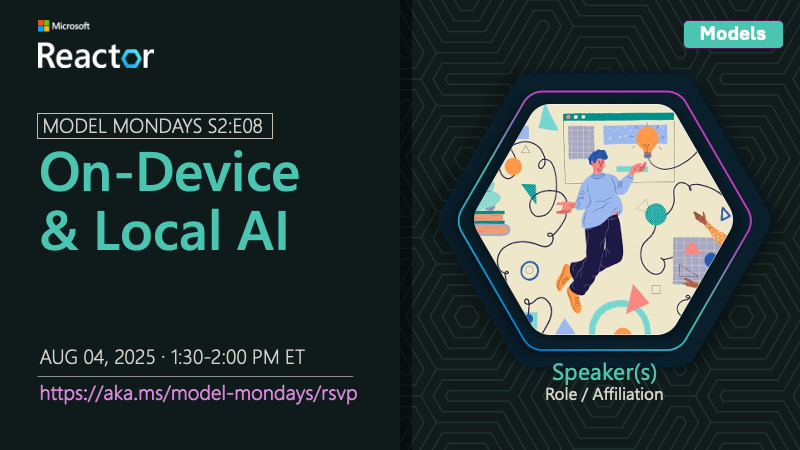
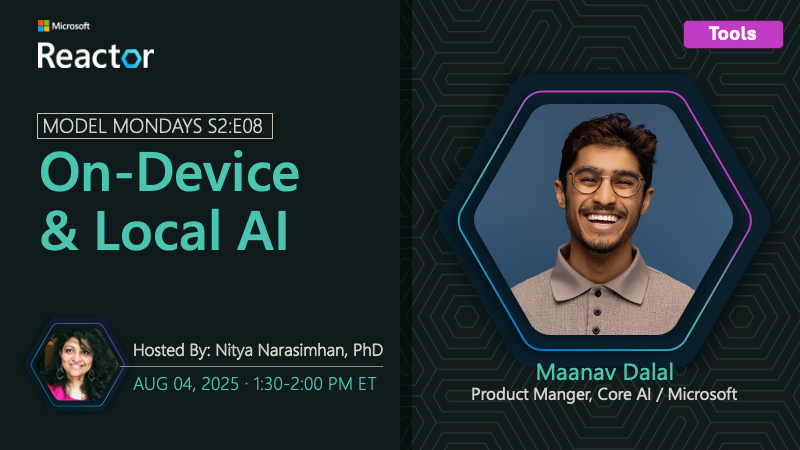
S1 & S2 / badges & schedule ready

diff --git a/README.md b/README.md
@@ -5,49 +5,85 @@
 [![GitHub stars](https://img.shields.io/github/stars/microsoft/model-mondays?style=social&label=Star)](https://github.com/microsoft/model-mondays/stargazers)
 
 
-[![Join Discord Shield](https://img.shields.io/badge/Join_The_Community-Azure_AI_Foundry_Discord-01a6f0)](https://aka.ms/model-mondays/discord) [![Discover](https://img.shields.io/badge/Talk_To_Experts-Foundry_Friday_AMA-f34f1c)](https://aka.ms/model-mondays/discord) [![Register](https://img.shields.io/badge/Watch_The_Replay-Model_Mondays_Playlist-ffba01)](https://aka.ms/model-mondays/[playlist]) [![Join](https://img.shields.io/badge/Watch_Us_Live-Model_Mondays_Livestream-7fbc00)](https://aka.ms/model-mondays/rsvp) [![Subscribe](https://img.shields.io/badge/Subscribe-Model_Mondays_Newsletter-purple)](https://aka.ms/model-mondays/newsletter) 
+[![Join Discord Shield](https://img.shields.io/badge/Join_The_Community-Azure_AI_Foundry_Discord-01a6f0)](https://aka.ms/model-mondays/discord) [![Discover](https://img.shields.io/badge/Register_For_AMA-Foundry_Friday_Series-f34f1c)](https://aka.ms/model-mondays/forum) [![Register](https://img.shields.io/badge/Watch_The_Replay-Model_Mondays_Playlist-ffba01)](https://aka.ms/model-mondays/playlist) [![Join](https://img.shields.io/badge/Register_For_Livestream-Model_Mondays_Series-7fbc00)](https://aka.ms/model-mondays/rsvp) [![Subscribe](https://img.shields.io/badge/Subscribe_To_Newsletter-Model_Mondays_Weekly-purple)](https://aka.ms/model-mondays/newsletter) 
+
+> 🌟 If you find this series useful, give us a star on GitHub!.
 
 ---
+
+<br/>
 
 ![Model Mondays](./img/model-mondays-banner.png)
 
-> [!IMPORTANT]
-> **Find this series useful? Give us a ⭐ on GitHub!**
 
-Model Mondays is a weekly 30-min livestream (on Mondays) with an AMA session (on Fridays) to help you keep up with the rapid pace of innovation in AI models.
+Every AI developer journey starts with model choice. But, as developers, we face two challenges. First is **information overload** - how do we keep up with the rapid pace of model updates and innovation? Second is **decision fatigue** - how do we pick the right model for our task given an ever-growing list of options?
 
-- **Highlights** · a 5-min recap of top model news from the last week.
-- **Spotlight** · a 15-min deep dive into a single model, with an expert.
-- **Community** · a 30-min AMA for interactive QA with experts, on Discord.
+Model Mondays tackles these challenges by helping you build your model IQ one week at a time with [livestreams every Monday](https://aka.ms/model-mondays/rsvp) and [AMAs every Friday](https://aka.ms/model-mondays/forum).
+
+1. **5-min Highlights** - catch up on key news items from the past week.
+2. **15-min Spotlight** - get a deep-dive on 1 topic from an expert.
+3. **30-min AMA** - ask questions & discuss topic with experts on Discord.
 
 
+<br/>
+
+## Season 2: Jun-Sep 2025
+
+> _Season 2 kicked off on Jun 16, 2025 and will run through Sep 2025. =Use the **Register** links to get reminders for upcoming events, and visit the **Replay** and **Recap** links to revisit past episodes and AMAs._
+
+| Episode | Topic | Monday Livestream | Friday AMA| Slides | 
+|:---|:---|:---|:---|:---|
+| S2:E01 | Advanced Reasoning | [![Replays](https://img.shields.io/badge/Replay_-Jun_16-ffba01)](https://www.youtube.com/watch?v=ffxUEenM4B8&list=PLmsFUfdnGr3wzz6a4E-Szksg92JPng-AL&index=12&pp=iAQB) | [![Recap](https://img.shields.io/badge/Recap_-Jun_20-01a6f0)](https://github.com/orgs/azure-ai-foundry/discussions/55) | [![Speakerdeck](https://img.shields.io/badge/Download_-PDF-purple)](https://speakerdeck.com/nitya/model-mondays-s2e01-advanced-reasoning)|
+| S2:E02 | Model Context Protocol| [![Replays](https://img.shields.io/badge/Replay_-Jun_23-ffba01)](https://www.youtube.com/watch?v=cPS3cWRZTps&list=PLmsFUfdnGr3wzz6a4E-Szksg92JPng-AL&index=9&pp=iAQB) | [![Recap](https://img.shields.io/badge/Recap_-Jun_27-01a6f0)](https://github.com/orgs/azure-ai-foundry/discussions/64) |[![Speakerdeck](https://img.shields.io/badge/Download_-PDF-purple)](https://speakerdeck.com/nitya/model-mondays-s2e02-model-context-protocol) |
+| S2:E03| SLMs and Reasoning | [![Replays](https://img.shields.io/badge/Replay_-Jun_30-ffba01)](https://www.youtube.com/watch?v=VLQKZq8L9Uk&list=PLmsFUfdnGr3wzz6a4E-Szksg92JPng-AL&index=1&pp=iAQB) | [![Recap](https://img.shields.io/badge/Register_-Jul_03-f34f1c)](https://discord.gg/azureaifoundry?event=1382861149288005693) |[![Speakerdeck](https://img.shields.io/badge/Download_-PDF-purple)](https://speakerdeck.com/nitya/model-mondays-s2e02-model-context-protocol) |
+| | **`REGISTER NOW 👇🏽`** | |
+| S2:E04| AI & Dev Experience | [![Replays](https://img.shields.io/badge/Register_-Jul_07-f7fbc00)](https://www.youtube.com/watch?v=tNiFbf3XP6k&list=PLmsFUfdnGr3wzz6a4E-Szksg92JPng-AL&index=11&pp=iAQB) | [![Recap](https://img.shields.io/badge/Register-Jul_11-f34f1c)](https://discord.gg/azureaifoundry?event=1382861578201858058) |[![Speakerdeck](https://img.shields.io/badge/Pending_-PDF-beige)]() |
+| S2:E05| Fine-Tuning & Distillation | [![Replays](https://img.shields.io/badge/Register_-Jul_14-f7fbc00)](https://www.youtube.com/watch?v=VSNGzBB20aw&list=PLmsFUfdnGr3wzz6a4E-Szksg92JPng-AL&index=10&pp=iAQB) | [![Recap](https://img.shields.io/badge/Register-Jul_18-f34f1c)](https://discord.gg/azureaifoundry?event=1382862245721014476) |[![Speakerdeck](https://img.shields.io/badge/Pending_-PDF-beige)]() |
+| S2:E06| Research & Innovation | [![Replays](https://img.shields.io/badge/Pending_-Jul_21-beige)]() | [![Recap](https://img.shields.io/badge/Register-Jul_25-f34f1c)](https://discord.gg/D7bAFEwj?event=1382862595849064548) |[![Speakerdeck](https://img.shields.io/badge/Pending_-PDF-beige)]() |
+| S2:E07| Model Auto-Selection | [![Replays](https://img.shields.io/badge/Register_-Jul_28-f7fbc00)](https://www.youtube.com/watch?v=mSrg1uP136g&list=PLmsFUfdnGr3wzz6a4E-Szksg92JPng-AL&index=8&pp=iAQB) | [![Recap](https://img.shields.io/badge/Register-Jul_31-f34f1c)](https://discord.gg/D7bAFEwj?event=1382862912804360354) |[![Speakerdeck](https://img.shields.io/badge/Pending_-PDF-beige)]() |
+| S2:E08| On-Device & Local AI | [![Replays](https://img.shields.io/badge/Register_-Aug_04-f7fbc00)](https://www.youtube.com/watch?v=ILBDDCJ0d9g&list=PLmsFUfdnGr3wzz6a4E-Szksg92JPng-AL&index=7&pp=iAQB) | [![Recap](https://img.shields.io/badge/Register-Aug_08-f34f1c)](https://discord.gg/azureaifoundry?event=1382863345777901670) |[![Speakerdeck](https://img.shields.io/badge/Pending_-PDF-beige)]() |
+| S2:E09| Models for AI Agents | [![Replays](https://img.shields.io/badge/Register_-Aug_11-f7fbc00)](https://www.youtube.com/watch?v=fjSxraAmGMI&list=PLmsFUfdnGr3wzz6a4E-Szksg92JPng-AL&index=6&pp=iAQB0gcJCcMJAYcqIYzv) | [![Recap](https://img.shields.io/badge/Register-Aug_15-f34f1c)](https://discord.gg/azureaifoundry?event=1382863654961025174) |[![Speakerdeck](https://img.shields.io/badge/Pending_-PDF-beige)]() |
+| S2:E10| Image & Video Playground | [![Replays](https://img.shields.io/badge/Register_-Aug_18-f7fbc00)](https://www.youtube.com/watch?v=tqOecUt_wCc&list=PLmsFUfdnGr3wzz6a4E-Szksg92JPng-AL&index=5&pp=iAQB) | [![Recap](https://img.shields.io/badge/Register-Aug_22-f34f1c)](https://discord.gg/azureaifoundry?event=1382864122902745228) |[![Speakerdeck](https://img.shields.io/badge/Pending_-PDF-beige)]() |
+| S2:E11| Text & Speech Playground | [![Replays](https://img.shields.io/badge/Register_-Aug_25-f7fbc00)](https://www.youtube.com/watch?v=Rr4iSCyE7IY&list=PLmsFUfdnGr3wzz6a4E-Szksg92JPng-AL&index=4&pp=iAQB) | [![Recap](https://img.shields.io/badge/Register-Aug_29-f34f1c)](https://discord.gg/azureaifoundry?event=1382864441191960696) |[![Speakerdeck](https://img.shields.io/badge/Pending_-PDF-beige)]() |
+| S2:E12| Models & Observability | [![Replays](https://img.shields.io/badge/Register_-Sep_08-f7fbc00)](https://www.youtube.com/watch?v=gEH2ACNf5b0&list=PLmsFUfdnGr3wzz6a4E-Szksg92JPng-AL&index=3&pp=iAQB) | [![Recap](https://img.shields.io/badge/Register-Sep_12-f34f1c)](https://discord.gg/azureaifoundry?event=1382864811649536120) |[![Speakerdeck](https://img.shields.io/badge/Pending_-PDF-beige)]() |
+| | | |
+
+> **Want to get more details about each session? [Check out the Season 2 page](./docs/season-02/README.md) for more information on each session including speakers, description and links to recaps and slides.** 
+
+![Season 2](./docs/season-02/img/S2-Banner-Lineup.png)
 ---
 
-## S2E02 · Model Context Protocol 🌟 **THIS WEEK** 🌟
+<br/>
 
-> Want to learn how Model Context Protocol works and how to leverage MCP in a more effective way to extend the capabilities of your AI models and agents? Join us as we talk to Den Delimarsky about the MCP specification, security considerations and usage within Microsoft Azure. 
+## Season 1: Mar-May 2025
 
- - 1⃣ | [Watch The Livestream Replay](https://www.youtube.com/watch?v=cPS3cWRZTps) 
- - 2⃣ | [Register For The AMA](https://discord.gg/azureaifoundry?event=1382860621137317948) - Friday, Jun 30
- - 3⃣ | [Ask Questions & View Recaps](https://github.com/orgs/azure-ai-foundry/discussions/54) - Discussion Forum
-
-![Banner](./docs/season-02/img/S2-E2.png)
-
-
-<br/> 
-
-## S2E03 · SLMs & Reasoning 🌟 **NEXT WEEK** 🌟
-
-> Reasoning models leverage inference-time scaling to execute complex tasks, but how can we use these in resource-constrained devices? Join us as we talk to Mojan Javaheripi about Phi-4 reasoning models that are redefining small language models (SLM) for the agentic era of apps.  
-
- - 1⃣ | [Register For The Livestream](https://developer.microsoft.com/en-us/reactor/events/25907/) - Monday, Jun 30
- - 2⃣ | [Register For The AMA](https://discord.gg/azureaifoundry?event=1382861149288005693) - Thursday, Jul 03
- - 3⃣ | [Ask Questions & View Recaps](https://aka.ms/model-mondays/forum) - Watch for update
-
-![Banner](./docs/season-02/img/S2-E3.png)
+[![Replays](https://img.shields.io/badge/Watch_S1:E01-GitHub_Models-b5179e)](https://www.youtube.com/watch?v=dohvGc7eyqU&list=PLmsFUfdnGr3wzz6a4E-Szksg92JPng-AL&index=20&pp=iAQB) 
+[![Replays](https://img.shields.io/badge/Watch_S1:E02-Reasoning_Models-43aa8b)](https://www.youtube.com/watch?v=nTqr4pzxF-k&list=PLmsFUfdnGr3wzz6a4E-Szksg92JPng-AL&index=19&pp=iAQB) 
+[![Replays](https://img.shields.io/badge/Watch_S1:E03-_Search_And_Retrieval_Models-43aa8b)](https://www.youtube.com/watch?v=Qs4fdy17b40&list=PLmsFUfdnGr3wzz6a4E-Szksg92JPng-AL&index=18&pp=iAQB) 
+[![Replays](https://img.shields.io/badge/Watch_S1:E04-Visual_Generative_Models-43aa8b)](https://www.youtube.com/watch?v=kDR09m_cUKs&list=PLmsFUfdnGr3wzz6a4E-Szksg92JPng-AL&index=17&pp=iAQB) 
+[![Replays](https://img.shields.io/badge/Watch_S1:E05-Fine_Tuning_Models-43aa8b)](https://www.youtube.com/watch?v=iCPl693s3dA&list=PLmsFUfdnGr3wzz6a4E-Szksg92JPng-AL&index=16&pp=iAQB) 
+[![Replays](https://img.shields.io/badge/Watch_S1:E06-Local_AI_Development-b5179e)](https://www.youtube.com/watch?v=MgIfvEEZN7o&list=PLmsFUfdnGr3wzz6a4E-Szksg92JPng-AL&index=15&pp=iAQB)  
+[![Replays](https://img.shields.io/badge/Watch_S1:E07-Open_Source_Models-43aa8b)](https://www.youtube.com/watch?v=2E842zOGIyI&list=PLmsFUfdnGr3wzz6a4E-Szksg92JPng-AL&index=14&pp=iAQB) 
+[![Replays](https://img.shields.io/badge/Watch_S1:E08-Forecasting_Models-43aa8b)](https://www.youtube.com/watch?v=_I6qDdp5Vo4&list=PLmsFUfdnGr3wzz6a4E-Szksg92JPng-AL&index=13&pp=iAQB0gcJCcMJAYcqIYzv) 
 
 
-<br/> 
+> **Our pilot season featured 8 episodes covering models (green badges) and tools (magenta badges) in Azure AI Foundry. [Visit the Season 1 page](./docs/season-01/README.md) for details or click the episode specific badge below to go directly to the replay.**
+
+[![Season 1](./docs/season-01/img/S1-lineup.png)](./docs/season-01/README.md)
+
+| Episode | Video | Blog | Slides | AMA | 
+|:---|:---|:---|:---|:---|
+| E01 · GitHub Models | [**Play ▶**](https://developer.microsoft.com/reactor/events/25265/)| [GitHub Models](https://techcommunity.microsoft.com/blog/machinelearningblog/introducing-model-mondays-%E2%80%93-your-ai-model-power-up/4390773) | [PDF](https://speakerdeck.com/nitya/model-mondays-s1-e1-mar-10-2025)  | Mar 14  |
+| E02 ·  Reasoning Models | [**Play ▶**](https://developer.microsoft.com/reactor/events/25266/) | [OpenAI, DeepSeek](./docs/season-01/ep-02.md)| [PDF](https://speakerdeck.com/nitya/model-mondays-s1-e2-hands-on-with-reasoning-models) | Mar 21 | 
+| E03 ·  Search + Retrieval  |  [**Play ▶**](https://developer.microsoft.com/en-us/reactor/events/25354/) |[Cohere Rerank](https://techcommunity.microsoft.com/blog/machinelearningblog/model-mondays-why-rerank-models-are-the-secret-sauce-of-high-quality-search/4396032) | [PDF](https://speakerdeck.com/nitya/model-mondays-s1-e3-hands-on-with-search-and-retrieval-models)  | Mar 28 |
+| E04 ·  Visual + Generative  |[**Play ▶**](https://developer.microsoft.com/reactor/events/25355/) |[Stable Diffusion](https://techcommunity.microsoft.com/blog/machinelearningblog/model-mondays-lights-prompts-action/4398576) |  [PDF](https://speakerdeck.com/nitya/model-mondays-s1-e4-hands-on-with-visual-generative-ai) | Apr 04 |
+| E05 ·  Fine-Tuning  |[**Play ▶**](https://developer.microsoft.com/reactor/events/25356/)  |[Mistral](https://techcommunity.microsoft.com/blog/machinelearningblog/model-mondays-teaching-your-model-new-tricks-with-fine-tuning/4401129) | [PDF](https://speakerdeck.com/nitya/model-mondays-s1-e4-hands-on-with-fine-tuning-models) | Apr 11| |
+| E06 ·  Local AI Development |[**Play ▶**](https://developer.microsoft.com/reactor/events/25357/)  | [AI Toolkit (AITK)](https://techcommunity.microsoft.com/blog/machinelearningblog/model-mondays-bringing-ai-home-with-local-development/4403619) |  [PDF](https://speakerdeck.com/nitya/model-mondays-s1-e6-hands-on-with-local-ai-development) | Apr 18 |
+| E07 ·  Open Source & AI  |[**Play ▶**](https://developer.microsoft.com/reactor/events/25358/)  | [Llama 4 (Meta)](https://techcommunity.microsoft.com/blog/aiplatformblog/expanding-the-llama-4-herd-new-models-now-available-on-azure-ai-foundry/4403609)| [PDF](https://speakerdeck.com/nitya/model-mondays-s1-e7-hands-on-with-open-source-models) | Apr 25|
+| E08 ·  Forecasting Models |[**Play ▶**](https://developer.microsoft.com/reactor/events/25359/)  | Nixtla TimeGEN | - | May 02 |
+| | |
+
+<br/>
 
 ## 👉🏽👉🏽 Join The Community
 
@@ -58,67 +94,5 @@ Great devs don't build alone! In a fast-pased developer ecosystem, there's no ti
 
 ![CTA](./img/3-cta.png)
 
----
-
-
-## 👉🏽👉🏽 Season 2: Live on Mondays, AMA on Fridays!
-
-Season 2 will be a 12-episode series with our focus now expanding to models and model-related tooling - with a focus on both industry (adoption) and research (innovation). Here's a sneak peek at the topics we have planned! 
-
-![Season 2](./docs/season-02/img/S2-Agenda.png)
-
-> [!IMPORTANT]  
-> Registrations are open for both livestreams and AMAs. **Click the date for registration links**. Check the table below for updates - and [visit the Season 2](./docs/season-02/README.md) pages for more details _or scroll down to see the current and next episodes on the schedule_.
-
-
-| Episode | Topic  | Live | AMA | Recap | PDF | Speaker(s)| 
-|:---|:---|:---|:---|:---|:---|:---|
-| E01 | Advanced Reasoning | [Play ▶](https://youtu.be/ffxUEenM4B8) | [Jun 20](https://discord.gg/azureaifoundry?event=1382860017660854372) | [Forum](https://github.com/orgs/azure-ai-foundry/discussions/55) | [Slides](https://speakerdeck.com/nitya/model-mondays-s2e01-advanced-reasoning) | Marlene Mhangami |
-| E02 |  Model Context Protocol| [Play ▶](https://www.youtube.com/watch?v=cPS3cWRZTps) | [Jun 27](https://discord.gg/azureaifoundry?event=1382860621137317948) | [Forum](https://github.com/orgs/azure-ai-foundry/discussions/64) | [Slide](https://speakerdeck.com/nitya/model-mondays-s2e02-model-context-protocol) | Den Delimarsky |
-| E03 | SLMs and Reasoning | [Jun 30](https://developer.microsoft.com/en-us/reactor/events/25907/) | [Jul 03](https://discord.gg/azureaifoundry?event=1382861149288005693) |-| - | Mojan Javaheripi, PhD |
-| E04 | AI & Developer Experience | [Jul 07](https://developer.microsoft.com/en-us/reactor/events/26108/) | [Jul 11](https://discord.gg/azureaifoundry?event=1382861578201858058) | - | - | Leo Yao|
-| E05 | Fine-Tuning & Distillation | [Jul 14](https://developer.microsoft.com/en-us/reactor/events/26109/) | [Jul 18](https://discord.gg/azureaifoundry?event=1382862245721014476)  | - | - | Dave Voutila |
-| E06 | Research & Innovation |[Jul 21](https://developer.microsoft.com/en-us/reactor/events/26110/)  | [Jul 25](https://discord.gg/D7bAFEwj?event=1382862595849064548)  | - | - | SeokJin Han <br/> Saumil Shrivastava |
-| E07 | Open-Source Models | Jul 28 | [Jul 31](https://discord.gg/D7bAFEwj?event=1382862912804360354) | - | - |  TBA|
-| E08 | On-Device & Local AI | Aug 04| [Aug 08](https://discord.gg/azureaifoundry?event=1382863345777901670) | - | - | TBA |
-| E09 | Models for AI Agents | Aug 11 | [Aug 15](https://discord.gg/azureaifoundry?event=1382863654961025174) | - | - | Mona Whalin|
-| E10 | Image & Video Playgrounds| Aug 18| [Aug 22](https://discord.gg/azureaifoundry?event=1382864122902745228) | - | - | Thasmika Gokal |
-| E11 | Text & Speech Playgrounds | Aug 25 | [Aug 29](https://discord.gg/azureaifoundry?event=1382864441191960696) | - | - | Cenyu Zhang |
-| E12 | Models & Observability | Sep 08 | [Sep 12](https://discord.gg/azureaifoundry?event=1382864811649536120) | - | - | Minsoo Thigpen|
-| | | | | | |
-
-<br/> 
-
-## 👉🏽👉🏽 Season 2: Replay Past Episodes
-
-### S2E01 · Advanced Reasoning (Jun 16, 2025)
-
-> Want to learn advanced techniques to improve AI's reasoning and problem-solving skills, enabling smarter and more efficient decision-making? Join us as we talk to Marlene Mhangami about her work building a Deep Researcher using Deep Seek R1 and LangChain. 
-
- - 1⃣ | [Watch The Livestream Replay](https://www.youtube.com/watch?v=ffxUEenM4B8) 
- - 2⃣ | [Read The AMA Transcript](https://discord.gg/azureaifoundry?event=1382860017660854372) 
- - 2⃣ | [Download the Presentation](https://discord.gg/azureaifoundry?event=1382860017660854372) 
-
-[![Banner](./docs/season-02/img/S2-E1.png)](https://www.youtube.com/watch?v=ffxUEenM4B8)
-
-<br/> 
-
-## 👉🏽👉🏽 Season 1: Watch The Replays
-
-Each episode puts the spotlight on a single model or model-related tool. Learn  Click the links to watch the replays - and [visit the Season 1 page](./docs/season-01/README.md) for episode details.
-
-![Season 2](./docs/season-01/img/Model-Mondays-Season2.png)
-
-| Episode | Stream | Video | Blog | Slides | AMA | 
-|:---|:---|:---|:---|:---|:---|
-| E01 · GitHub Models | Mar 10 | [**Play ▶**](https://developer.microsoft.com/reactor/events/25265/)| [GitHub Models](https://techcommunity.microsoft.com/blog/machinelearningblog/introducing-model-mondays-%E2%80%93-your-ai-model-power-up/4390773) | [PDF](https://speakerdeck.com/nitya/model-mondays-s1-e1-mar-10-2025)  | Mar 14  |
-| E02 ·  Reasoning Models| Mar 17 | [**Play ▶**](https://developer.microsoft.com/reactor/events/25266/) | [OpenAI, DeepSeek](./docs/season-01/ep-02.md)| [PDF](https://speakerdeck.com/nitya/model-mondays-s1-e2-hands-on-with-reasoning-models) | Mar 21 | 
-| E03 ·  Search + Retrieval | Mar 24 |  [**Play ▶**](https://developer.microsoft.com/en-us/reactor/events/25354/) |[Cohere Rerank](https://techcommunity.microsoft.com/blog/machinelearningblog/model-mondays-why-rerank-models-are-the-secret-sauce-of-high-quality-search/4396032) | [PDF](https://speakerdeck.com/nitya/model-mondays-s1-e3-hands-on-with-search-and-retrieval-models)  | Mar 28 |
-| E04 ·  Visual + Generative | Mar 31 |[**Play ▶**](https://developer.microsoft.com/reactor/events/25355/) |[Stable Diffusion](https://techcommunity.microsoft.com/blog/machinelearningblog/model-mondays-lights-prompts-action/4398576) |  [PDF](https://speakerdeck.com/nitya/model-mondays-s1-e4-hands-on-with-visual-generative-ai) | Apr 04 |
-| E05 ·  Fine-Tuning | Apr 07 |[**Play ▶**](https://developer.microsoft.com/reactor/events/25356/)  |[Mistral](https://techcommunity.microsoft.com/blog/machinelearningblog/model-mondays-teaching-your-model-new-tricks-with-fine-tuning/4401129) | [PDF](https://speakerdeck.com/nitya/model-mondays-s1-e4-hands-on-with-fine-tuning-models) | Apr 11| |
-| E06 ·  Local AI Development | Apr 14 |[**Play ▶**](https://developer.microsoft.com/reactor/events/25357/)  | [AI Toolkit (AITK)](https://techcommunity.microsoft.com/blog/machinelearningblog/model-mondays-bringing-ai-home-with-local-development/4403619) |  [PDF](https://speakerdeck.com/nitya/model-mondays-s1-e6-hands-on-with-local-ai-development) | Apr 18 |
-| E07 ·  Open Source & AI | Apr 21 |[**Play ▶**](https://developer.microsoft.com/reactor/events/25358/)  | [Llama 4 (Meta)](https://techcommunity.microsoft.com/blog/aiplatformblog/expanding-the-llama-4-herd-new-models-now-available-on-azure-ai-foundry/4403609)| [PDF](https://speakerdeck.com/nitya/model-mondays-s1-e7-hands-on-with-open-source-models) | Apr 25|
-| E08 ·  Forecasting Models | Apr 28 |[**Play ▶**](https://developer.microsoft.com/reactor/events/25359/)  | Nixtla TimeGEN | - | May 02 |
-| | |
 
 <br/>

diff --git a/docs/season-02/README.md b/docs/season-02/README.md
@@ -1,6 +1,6 @@
 # Model Mondays: Season 2
 
-Here is the planned schedule! Keep an eye out for updates.
+This is the currently-planned schedule. Some of the events (see: ⁉) are currently being planned so please check back regularly for updates!
 
 ![Spotlights](./img/S2-Agenda.png)
 
@@ -15,6 +15,7 @@ Here is the planned schedule! Keep an eye out for updates.
  - 1⃣ | [Register For The Livestream](https://developer.microsoft.com/en-us/reactor/events/25905/) - Monday, Jun 16
  - 2⃣ | [Register For The AMA](https://discord.gg/azureaifoundry?event=1382860017660854372) - Friday, Jun 20
  - 3⃣ | [Ask Questions & View Recaps](https://github.com/orgs/azure-ai-foundry/discussions/55) - Discussion Forum
+ - 4⃣ | [Download Slides](https://speakerdeck.com/nitya/model-mondays-s2e01-advanced-reasoning) - Speakerdeck PDF
 
 ![Banner](./img/S2-E1.png)
 
@@ -27,9 +28,9 @@ Here is the planned schedule! Keep an eye out for updates.
  - 1⃣ | [Register For The Livestream](https://developer.microsoft.com/en-us/reactor/events/25906/) - Monday, Jun 23
  - 2⃣ | [Register For The AMA](https://discord.gg/azureaifoundry?event=1382860621137317948) - Friday, Jun 30
  - 3⃣ | [Ask Questions & View Recaps](https://github.com/orgs/azure-ai-foundry/discussions/54) - Discussion Forum
+ - 4⃣ | [Download Slides](https://speakerdeck.com/nitya/model-mondays-s2e02-model-context-protocol) - Speakerdeck PDF
 
 ![Banner](./img/S2-E2.png)
-
 
 ---
 
@@ -37,10 +38,130 @@ Here is the planned schedule! Keep an eye out for updates.
 
 > Reasoning models leverage inference-time scaling to execute complex tasks, but how can we use these in resource-constrained devices? Join us as we talk to Mojan Javaheripi about Phi-4 reasoning models that are redefining small language models (SLM) for the agentic era of apps. 
 
- - 1⃣ | [Register For The Livestream](https://developer.microsoft.com/en-us/reactor/events/25907/) - Monday, Jun 30
- - 2⃣ | [Register For The AMA](https://discord.gg/azureaifoundry?event=1382861149288005693) - Thursday, Jul 03
- - 3⃣ | [Ask Questions & View Recaps](https://github.com/orgs/azure-ai-foundry/discussions/54) - Discussion Forum
+ - 1⃣ | [Register For The Livestream](https://developer.microsoft.com/en-us/reactor/events/25907/) - Jun 30, 2025
+ - 2⃣ | [Register For The AMA](https://discord.gg/azureaifoundry?event=1382861149288005693) - Jul 03, 2025
+ - 3⃣ | [Ask Questions & View Recaps](https://github.com/orgs/azure-ai-foundry/discussions/76) - Discussion Forum
+ - 4⃣ | [Download Slides](https://speakerdeck.com/nitya/model-mondays-s2e03-slms-and-reasoning) - Speakerdeck 
 
 ![Banner](./img/S2-E3.png)
 
 ---
+
+## S2E04 · AI Developer Experiences
+> How can we streamline the AI developer journey from model selection and usage to evaluation and app deployment? Join us as we talk to Leo Yao about the AI Toolkit and Azure AI Foundry extensions for Visual Studio Code – and the key capabilities they provide for generative AI app & agent development. 
+
+ - 1⃣ | [Register For The Livestream](https://developer.microsoft.com/en-us/reactor/events/26108/) - Jul 07, 2025
+ - 2⃣ | [Register For The AMA](https://discord.gg/azureaifoundry?event=1382861578201858058) - Jun 11, 2025
+ - 3⃣ | [Ask Questions & View Recaps](https://aka.ms/model-mondays/forum) - Discussion Forum
+
+![Banner](./img/S2-E4.png)
+
+---
+
+## S2E05 · Fine Tuning & Distillation
+
+> Model customization is critical to ensuring the model is optimized for your application requirements. Join us as we talk to Dave Voutila about fine-tuning Azure OpenAI models, using distillation techniques for efficient knowledge transfer, and other best practices in Azure AI Foundry. 
+
+ - 1⃣ | [Register For The Livestream](https://developer.microsoft.com/en-us/reactor/events/26109/) - Jul 14, 2025
+ - 2⃣ | [Register For The AMA](https://discord.gg/azureaifoundry?event=1382862245721014476) - Jul 18, 2025
+ - 3⃣ | [Ask Questions & View Recaps](https://aka.ms/model-mondays/forum) - Discussion Forum
+
+![Banner](./img/S2-E5.png)
+
+---
+
+## S2E06 · Research & Innovation
+
+> Azure AI Foundry Labs is a hub to explore cutting-edge research from Microsoft. Join us as we talk to SeokJin Han and Saumil Shrivastava about two key projects – the MCP Server for Azure AI Foundry, and the Magentic-UI for advancing research on human-in-the-loop experiences with AI. 
+
+ - 1⃣ | [Register For The Livestream](https://developer.microsoft.com/en-us/reactor/events/26110/) - Jul 21, 2025
+ - 2⃣ | [Register For The AMA](https://discord.gg/D7bAFEwj?event=1382862595849064548) - Jul 25, 2025
+ - 3⃣ | [Ask Questions & View Recaps](https://aka.ms/model-mondays/forum) - Discussion Forum
+
+![Banner](./img/S2-E6.png)
+
+---
+
+## S2E07 · Model Auto-Selection
+
+> What if your model selection was made for you automatically, based on factors like query complexity, cost & performance? Join us as we discuss Model Router – a deployable chat model that acts like a multi-model proxy, intelligently routing requests to the best available model in real time, based on a given prompt.
+
+ - 1⃣ | [Register For The Livestream](URL_TBD) - Jul 28, 2025 ⁉
+ - 2⃣ | [Register For The AMA](https://discord.gg/D7bAFEwj?event=1382862912804360354) - Jul 31, 2025
+ - 3⃣ | [Ask Questions & View Recaps](https://aka.ms/model-mondays/forum) - Discussion Forum
+
+![Banner](./img/S2-E7.png)
+
+---
+
+## S2E08 · On-Device & Local AI
+
+> On-device inference is critical if you want to run AI models locally, on your own hardware, e.g., for edge computing needs. Join as as we talk to Maanav Dalal about Foundry Local – a solution built on ONNX Runtime (for use in CPUs, NPUs & GPUs) & taking you from prototype to production. 
+
+ - 1⃣ | [Register For The Livestream](https://developer.microsoft.com/en-us/reactor/events/26127/) - Aug 04, 2025
+ - 2⃣ | [Register For The AMA](https://discord.gg/azureaifoundry?event=1382863345777901670) - Aug 08, 2025
+ - 3⃣ | [Ask Questions & View Recaps](https://aka.ms/model-mondays/forum) - Discussion Forum
+
+![Banner](./img/S2-E8.png)
+
+---
+
+## S2E09 · Models for AI Agents
+
+> Want to build agentic AI applications but looking for resources to learn configuration and design patterns? Join as as we talk to Mona Whalin about the Azure AI Foundry Agent Catalog – open-source samples you can explore to accelerate your agent development by integration into projects!
+
+ - 1⃣ | [Register For The Livestream](https://developer.microsoft.com/en-us/reactor/events/26128/ - Aug 11, 2025
+ - 2⃣ | [Register For The AMA](https://discord.gg/azureaifoundry?event=1382863654961025174) - Aug 15, 2025
+ - 3⃣ | [Ask Questions & View Recaps](https://aka.ms/model-mondays/forum) - Discussion Forum
+
+![Banner](./img/S2-E9.png)
+
+---
+
+## S2E10 · Image & Video Playgrounds
+
+> Want high-fidelity testbeds to prototype visual and video-based generative AI apps with cutting-edge models like Sora and GPT-image-1? Join us as we talk to Thasmika Gokal about going from prompt to playback with Azure AI Foundry Image & Video Playgrounds. 
+
+ - 1⃣ | [Register For The Livestream](https://developer.microsoft.com/en-us/reactor/events/26129/) - Aug 18, 2025
+ - 2⃣ | [Register For The AMA](https://discord.gg/azureaifoundry?event=1382864122902745228) - Aug 22, 2025
+ - 3⃣ | [Ask Questions & View Recaps](https://aka.ms/model-mondays/forum) - Discussion Forum
+
+![Banner](./img/S2-E10.png)
+
+---
+
+## S2E11 · Text & Speech Playgrounds
+
+> Want to explore natural language and speech capabilities (like text to speech, speech to text, translation etc.) in your browser before switching to code? Try the Azure AI Foundry Speech and Language playground. Join us as we talk to Cenyu Zhang about the Speech resource and how we can use it today to transform the user experience in generative AI applications. 
+
+ - 1⃣ | [Register For The Livestream](URL_TBD) - Aug 25, 2025 ⁉
+ - 2⃣ | [Register For The AMA](https://discord.gg/azureaifoundry?event=1382864441191960696) - Aug 29, 2025
+ - 3⃣ | [Ask Questions & View Recaps](https://aka.ms/model-mondays/forum) - Discussion Forum
+
+![Banner](./img/S2-E11.png)
+
+---
+
+## S2E12 · Models & Observability
+
+> Observability is about instrumenting AI apps to collect signals that provide insight into model behavior & performance across the GenAIOps lifecycle. Join us as we talk to Minsoo Thigpen about evaluations, red-teaming & end-to-end observability in Azure AI Foundry – for trustworthy AI! 
+
+ - 1⃣ | [Register For The Livestream](URL_TBD) - Sep 08, 2025 ⁉
+ - 2⃣ | [Register For The AMA](https://discord.gg/azureaifoundry?event=1382864811649536120) - Sep 12, 2025
+ - 3⃣ | [Ask Questions & View Recaps](https://aka.ms/model-mondays/forum) - Discussion Forum
+
+![Banner](./img/S2-E12.png)
+
+
+---
+
+## S2E13 · Open Source Models (In-Planning)
+
+> Did you know the Hugging Face collection on Azure AI Foundry Models currently has over 10K options? So when should we use them and how do we select the right one? Join us as we talk about getting started with Hugging Face models on Azure AI – and how you can request new additions. 
+
+ - 1⃣ | Register For The Livestream - Date TBD ⁉
+ - 2⃣ | Register For The AMA - Date TBD ⁉
+ - 3⃣ | Ask Questions & View Recaps - Event TBA⁉
+
+![Banner](./img/S2-E13.png)
+
